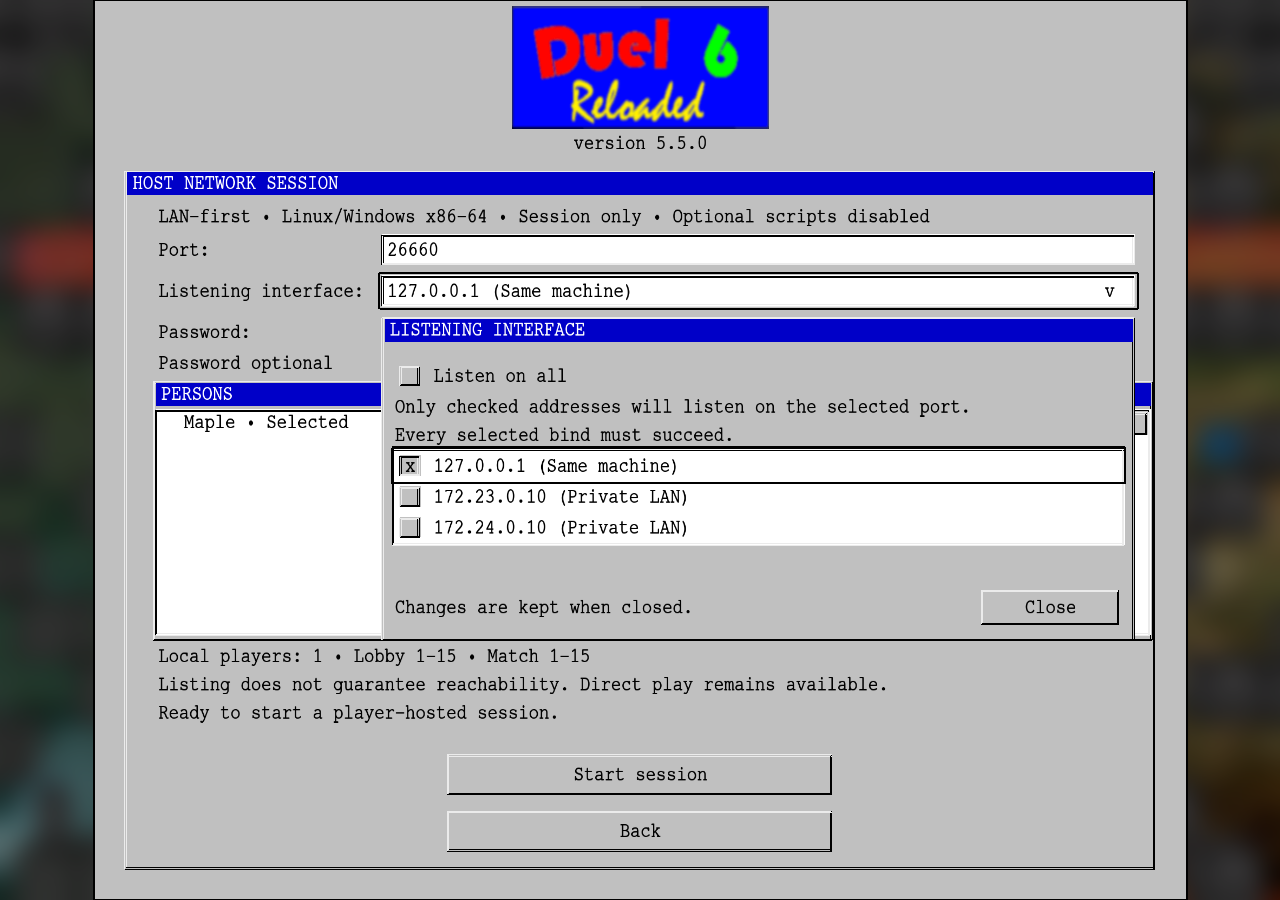
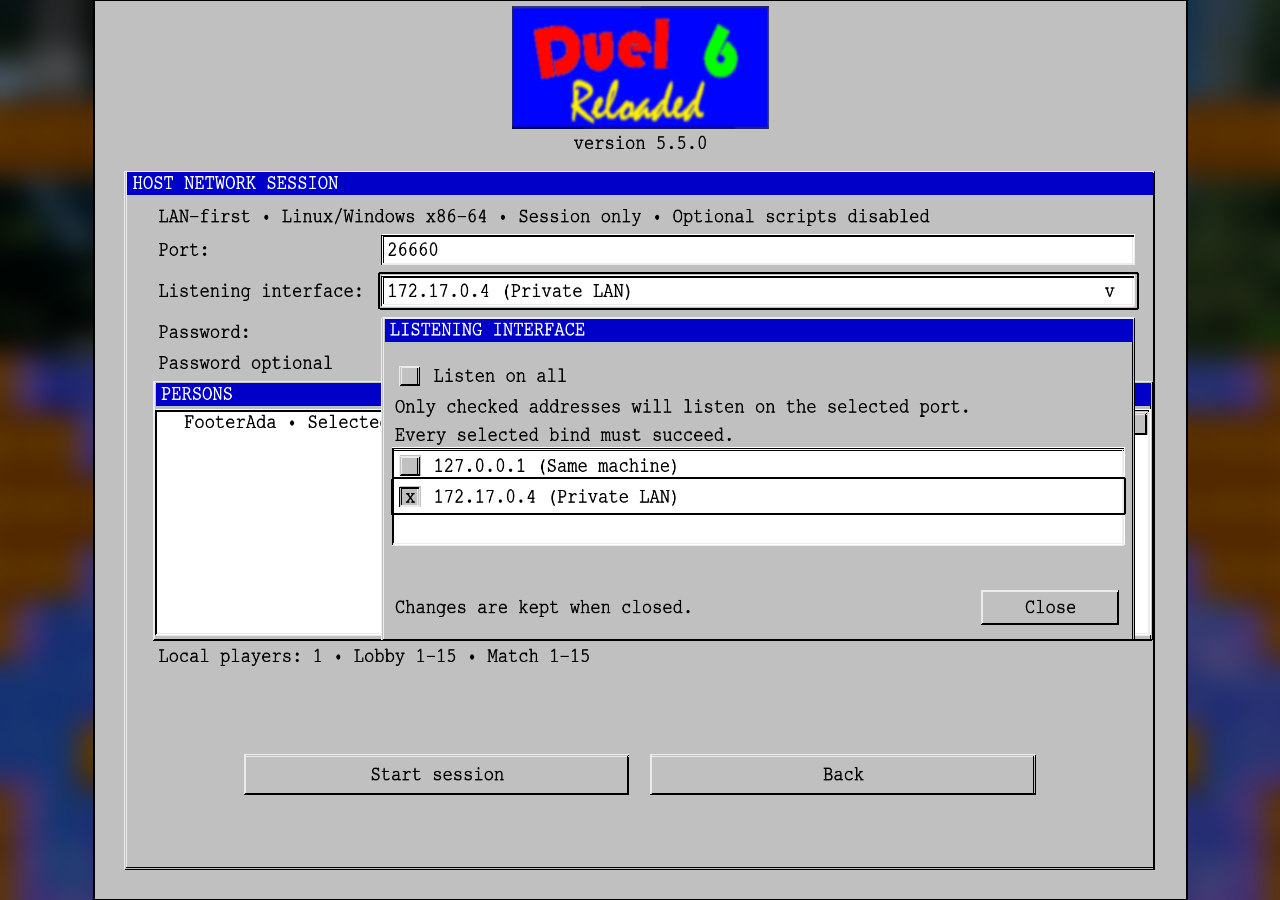
Refresh accepted host footer screenshots

diff --git a/docs/design/screenshots/README.md b/docs/design/screenshots/README.md
@@ -91,13 +91,32 @@ Use existing profile `L`: actual Linux x86-64 desktop client, Docker Release GL4
 
 | Screen / stable wireframe / state | Route and setup | Expected result | Canonical destination | Current conformance |
 |---|---|---|---|---|
-| NET-02 / NET-02 / valid editable setup | MENU-01 → F2 → Host; one valid local person/control, valid Port, Listen on all, disposable masked optional Password focused; popup closed; no startup. | Static listing/direct-play and idle readiness text absent without replacement; Start session left of Back on one centered row. Capacity, endpoint, Password help, setup panels and surrounding implemented copy/allocation remain unchanged. | `docs/design/screenshots/NET-02/NET-02.png` | Pending supplied evidence |
-| NET-02 / NET-02-LA / wildcard popup | Same setup → Listening interface; checked/focused Listen on all; actual loopback and at least one other eligible assigned IPv4 choice checked/disabled. | Same changed underlying footer and omitted static text; unchanged full addresses, wildcard help, focus, Close and popup containment. | `docs/design/screenshots/NET-02/NET-02-LA.png` | Pending supplied evidence |
-| NET-02 / NET-02-LE / explicit popup | Same setup → disable Listen on all → retain one eligible checked/focused address and at least one unchecked enabled choice; no Start. | Same changed underlying footer and omitted static text; matching explicit summary, independent choices, atomic-bind help, focus and Close remain unchanged. | `docs/design/screenshots/NET-02/NET-02-LE.png` | Pending supplied evidence |
+| NET-02 / NET-02 / valid editable setup | MENU-01 → F2 → Host; one valid local person/control, valid Port, Listen on all, disposable masked optional Password focused; popup closed; no startup. | Static listing/direct-play and idle readiness text absent without replacement; Start session left of Back on one centered row. Capacity, endpoint, Password help, setup panels and surrounding implemented copy/allocation remain unchanged. | `docs/design/screenshots/NET-02/NET-02.png` | Accepted — supplied Linux state/viewport |
+| NET-02 / NET-02-LA / wildcard popup | Same setup → Listening interface; checked/focused Listen on all; actual loopback and at least one other eligible assigned IPv4 choice checked/disabled. | Same changed underlying footer and omitted static text; unchanged full addresses, wildcard help, focus, Close and popup containment. | `docs/design/screenshots/NET-02/NET-02-LA.png` | Accepted — supplied Linux state/viewport |
+| NET-02 / NET-02-LE / explicit popup | Same setup → disable Listen on all → retain one eligible checked/focused address and at least one unchecked enabled choice; no Start. | Same changed underlying footer and omitted static text; matching explicit summary, independent choices, atomic-bind help, focus and Close remain unchanged. | `docs/design/screenshots/NET-02/NET-02-LE.png` | Accepted — supplied Linux state/viewport |
 
 Retain the existing focused viewport profiles without new permanent rows: 850 × 700 floor, 1280 × 720 short-wide, and 1920 × 1080 scale-cap/pointer alignment. A source-tied developer report must cover the changed row's containment, unchanged Start session → Back traversal/activation, matching pointer bounds, and a real invalid-Port reason with disabled Start followed by correction with no idle readiness text. Errors, password rejection feedback and non-static statuses remain unchanged; reuse unaffected source-tied evidence rather than repeat the hosting/network campaign. No startup, Join, lobby, gameplay, native Windows/macOS/Pi, or unrelated-window capture is added. Routine developer checks suffice; this matrix does not require independent QA.
 
 Developer owns capture and replacement after the candidate is ready under existing team preflight. For each original supply fixed specification/wireframe identities, immutable application checkpoint and any uncommitted presentation differences, capture time, native route/state/setup, actual viewport and canvas transform, OS/architecture/renderer, runtime/assets identity, background, application identity, path and SHA-256. Popup provenance must include actual eligible literals/scopes, mode, retained set and focused row; two real eligible choices suffice. Record backend/transport as not started and disclose unavailable dependencies rather than fabricate a substitute. Assess the completed three-row set once against the fixed baseline; update this manifest only during assessment. Exact-byte integration without presentation-source changes needs no repeated capture or assessment.
+
+### Current footer assessment and provenance
+
+**Visual gate: satisfied.** UX inspected all three complete originals and the supplied provenance against the fixed baseline/matrix at `72dd0d8aa7ce530d5531adae5ae05a2e7e60f177`, branch `feature/host-menu-footer`. Production/runtime producer is `f2d7eb02bbe80a4f246345a774109a9fc4c4fe99`, with no reported presentation-source differences. In every image the three static sentences are absent without replacement, and Start session precedes Back in one centered, equal-height row with clear separation. Existing grey bevels, blue headings, inset fields/lists, non-color focus, capacity and surrounding content remain consistent. Both popups preserve complete addresses, mode help, Close and the unobscured footer. No clipping, overlap or substituted state was found. Normative expectations and wireframes remain unchanged.
+
+Paths below are relative to `docs/design/screenshots/NET-02/`. Acquisition bounds are UTC on **2026-11-11**, not GPU-present timestamps. SHA-256 values and runtime metadata are developer-supplied, not independently recomputed by UX.
+
+| Accepted original | SHA-256 | Acquisition bounds | Observed state |
+|---|---|---|---|
[3 lines of base64/hex data omitted]
+
+- **Reproduction:** Ordinary MENU-01 → F2 → Host with FooterAda / K1: Arrows, Port 26660 and a disposable 15-character masked Password; then open Listening interface, disable Listen on all, uncheck loopback and focus the retained private address. Actual eligible choices are `127.0.0.1` / Same machine / lo and `172.17.0.4` / Private LAN / eth0. The explicit retained set is only `172.17.0.4`. The NAME-only person fixture starts with zero counters and Elo 1000; no UI state was injected. No backend, listener, admitted session or transport mapping was started.
[3 lines of base64/hex data omitted]
+
+Team reports functional closure and the focused viewport/input checks satisfied; UX did not execute them. These stills establish the scoped Linux presentation, not hidden activation bounds, error behavior, hosting/network correctness, physical-controller operation or native-platform conformance. Existing platform obligations and deferrals remain unchanged. No additional capture or reassessment is required for exact integration of these accepted originals and this manifest without presentation-source changes. NET-02-P and all unrelated evidence retain their existing identities and scope.
 
 ## NET-10 current copy-removal matrix
 
